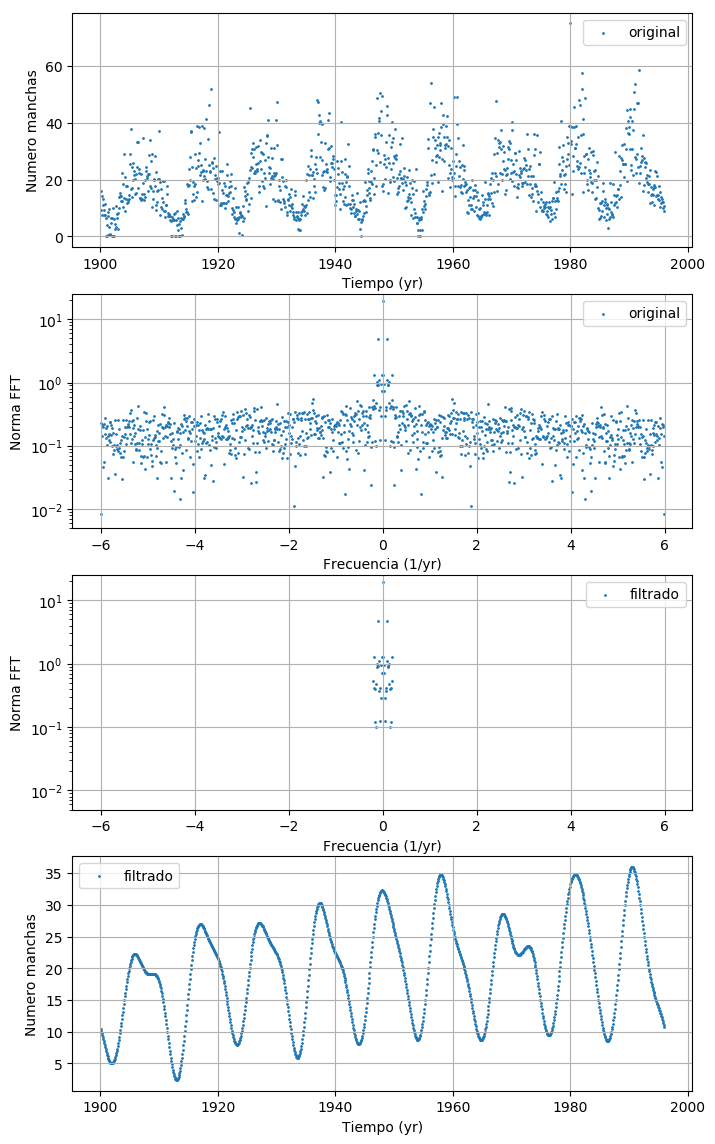
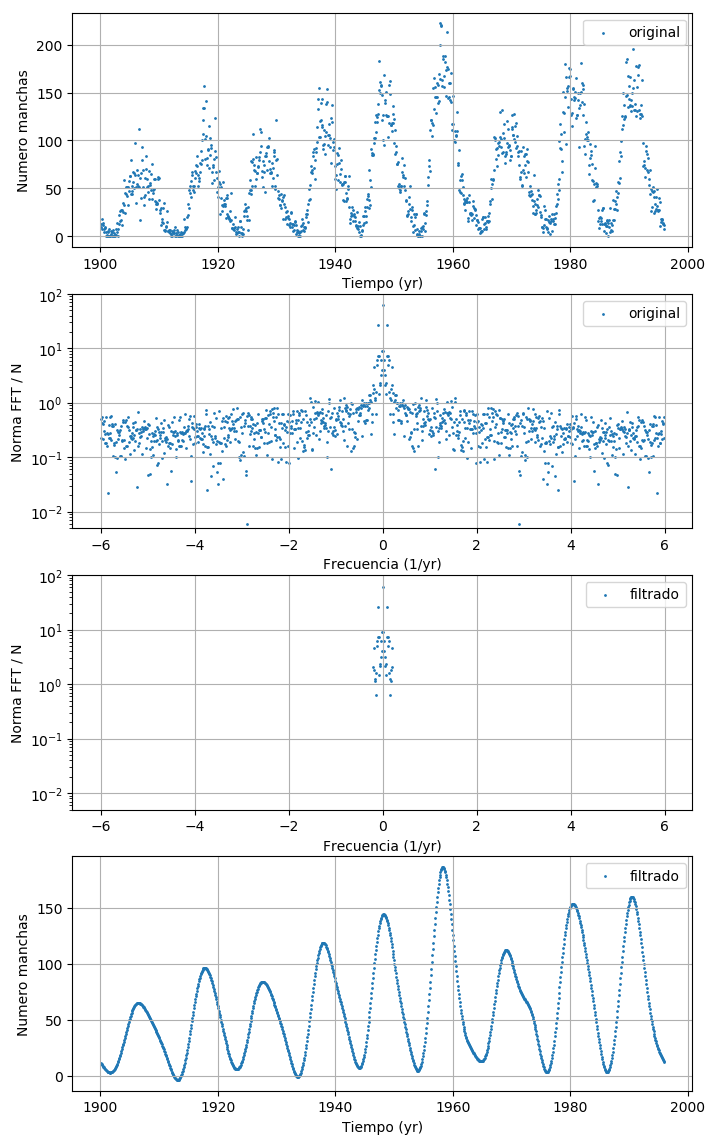
ejercicio 18

diff --git a/ejercicios/18/JaimeForero_Ejercicio18.py b/ejercicios/18/JaimeForero_Ejercicio18.py
@@ -1,0 +1,98 @@
+import numpy as np
+import matplotlib.pyplot as plt
+
+import numpy as np
+import matplotlib.pyplot as plt
+
+def FT(x):
+    N = len(x)
+    X = np.zeros(N, dtype=complex)
+
+    for k in range(N):
+        X[k] = 0.0j
+        for n in range(N):
+            X[k] += x[n] * np.exp(-2.0 * np.pi * 1.0j / N ) ** (k * n) 
+        
+    return X
+
+def IFT(x):
+    N = len(x)
+    X = np.zeros(N, dtype=complex)
+
+    for k in range(N):
+        X[k] = 0.0j
+        for n in range(N):
+            X[k] += x[n] * np.exp(2.0 * np.pi * 1.0j / N ) ** (k * n) 
+        
+    return X/N
+
+data = np.loadtxt("monthrg.dat")
+time = data[:,0] + data[:,1]/12.0
+signal = data[:,3]
+
+signal = signal[time>1900]
+time = time[time>1900]
+
+# calculo la transformada
+fft_signal = FT(signal)
+
+# calculo la frecuencias
+N=len(fft_signal)
+f = np.zeros(N)
+if N%2==0:
+    f[:N//2] = np.arange(N//2)
+    f[N//2:] = np.arange(-N//2,0)
+else:
+    f[:(N-1)//2+1] = np.arange((N-1)//2 + 1)
+    f[(N-1)//2+1:] = np.arange(-(N-1)//2, 0)
+d = (1.0/12.0) # intervalo entre medidas
+f = f/(d*N)
+
+# filtro de las frecuencias mayores que 0.2 years^{-1}
+fft_signal_filter = fft_signal.copy()
+fft_signal_filter[np.abs(f)>0.2] = 0.0
+
+
+# calculada de la tranformada inversa
+signal_filter = IFT(fft_signal_filter)
+
+plt.figure(figsize=(8,14))
+
+# plot de los datos
+plt.subplot(4,1,1)
+plt.scatter(time, signal, label='original', s=1.0)
+plt.xlabel('Tiempo (yr)')
+plt.ylabel('Numero manchas')
+plt.grid()
+plt.legend()
+
+#plot de la transformada
+plt.subplot(4,1,2)
+plt.scatter(f, np.abs(fft_signal)/len(fft_signal), label='original', s=1.0)
+plt.xlabel('Frecuencia (1/yr)')
+plt.ylabel('Norma FFT / N')
+plt.yscale('log')
+plt.ylim([5E-3,1E2])
+plt.grid()
+plt.legend()
+
+# plot de la transformada filtrada
+plt.subplot(4,1,3)
+plt.scatter(f, np.abs(fft_signal_filter)/len(fft_signal_filter), label='filtrado', s=1.0)
+plt.xlabel('Frecuencia (1/yr)')
+plt.ylabel('Norma FFT / N')
+plt.yscale('log')
+plt.grid()
+plt.legend()
+plt.ylim([5E-3,1E2])
+
+
+# plot de la transformada inversa
+plt.subplot(4,1,4)
+plt.scatter(time, np.real(signal_filter), label='filtrado', s=1.0)
+plt.xlabel('Tiempo (yr)')
+plt.ylabel('Numero manchas')
+plt.grid()
+plt.legend()
+
+plt.savefig('ejercicio18.png', bbox_inches='tight')
